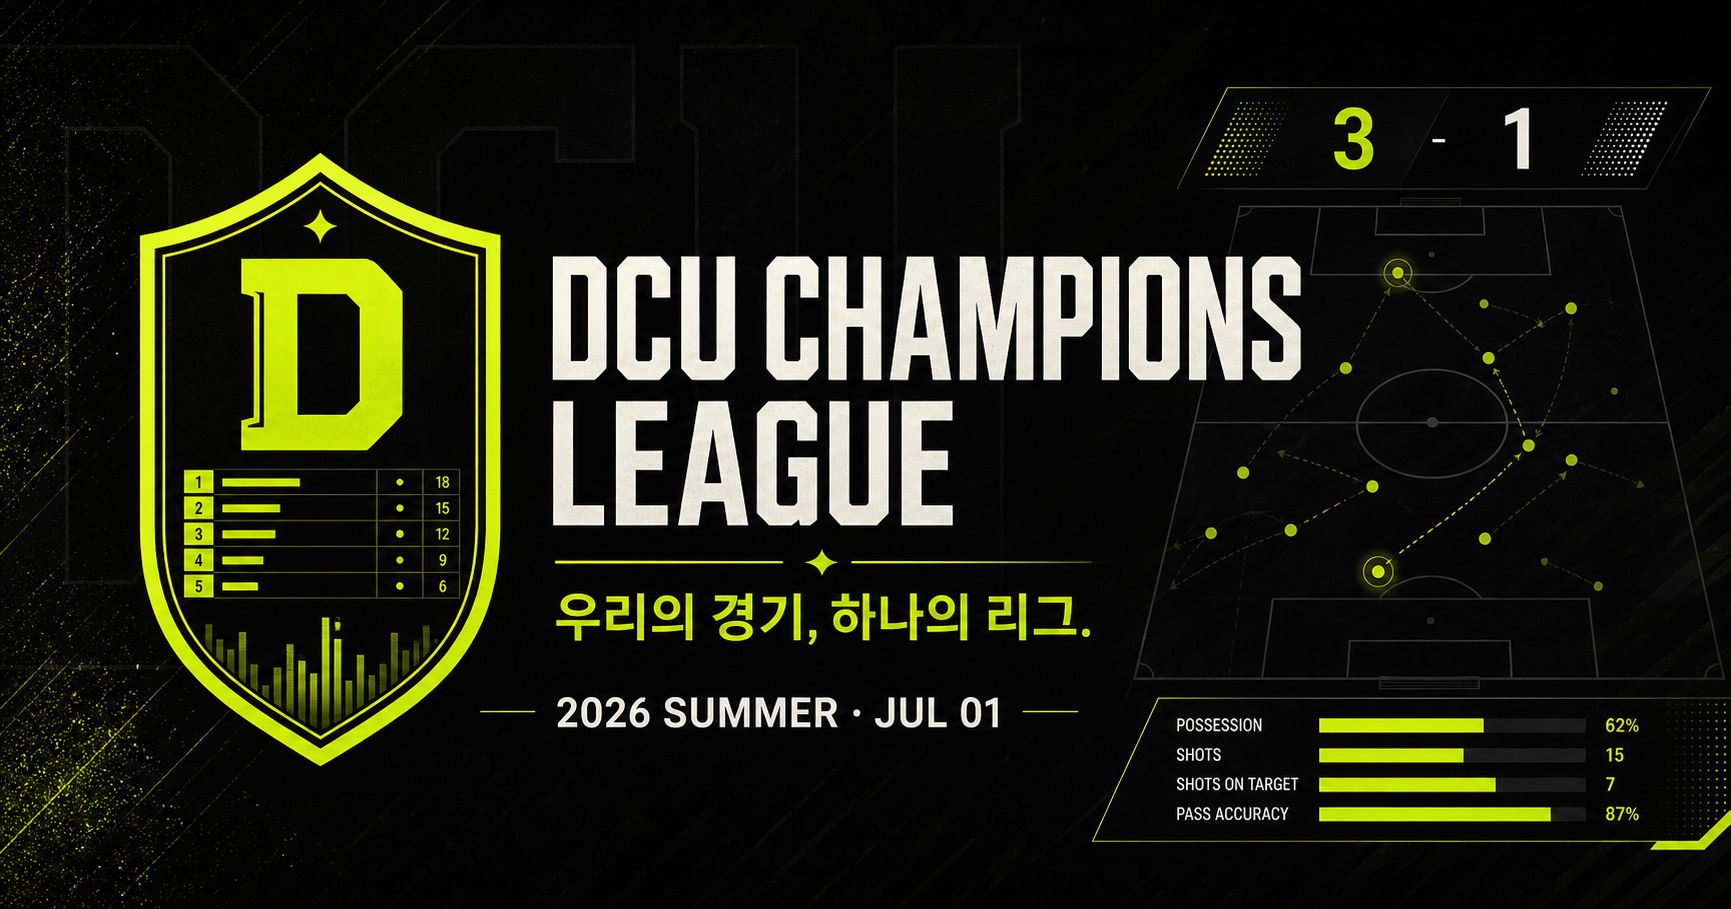
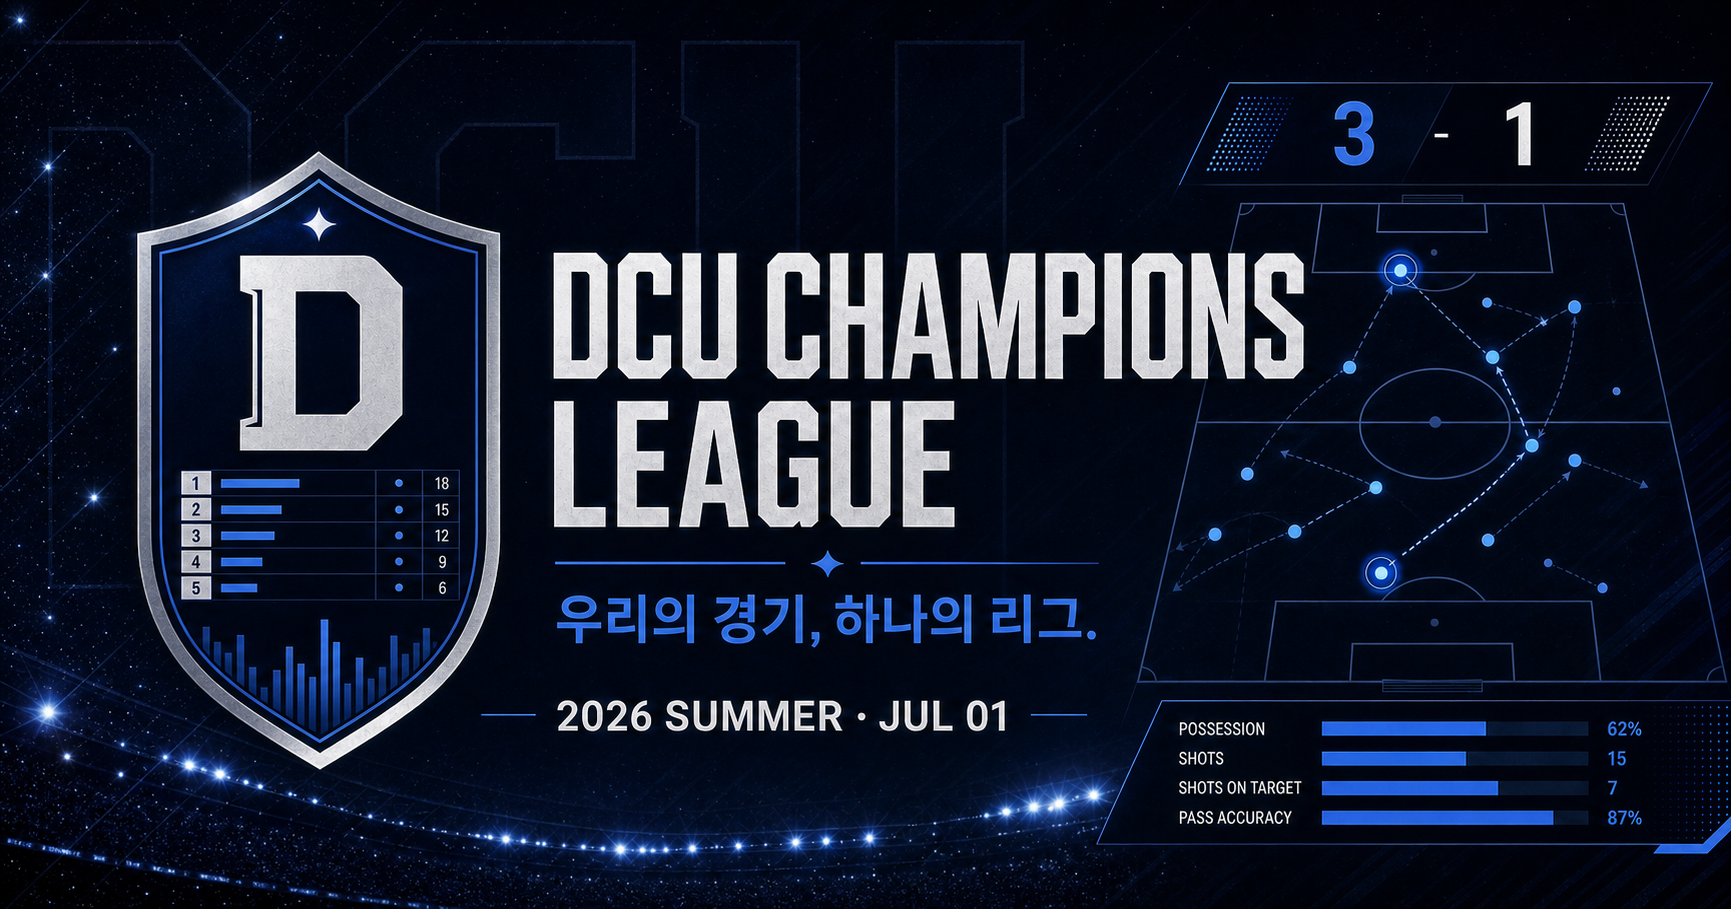
Connect live Nexon data and add European night theme

diff --git a/app/api/league/route.ts b/app/api/league/route.ts
@@ -1,0 +1,112 @@
+import { NextResponse } from "next/server";
+
+const API = "https://open.api.nexon.com/fconline/v1";
+const NICKNAMES = ["씅민쓰", "6년제", "따이민", "그냥강혜중", "대가대다님", "박수환", "빅수환", "6w91oap5jy"];
+const START = new Date("2026-07-01T00:00:00+09:00");
+
+type MatchInfo = {
+  ouid: string;
+  nickname: string;
+  matchDetail: { matchResult: string; possession: number };
+  shoot: { goalTotal: number; shootOutScore: number; shootTotal: number; effectiveShootTotal: number };
+  pass: { passTry: number; passSuccess: number };
+  shootDetail: Array<{ goalTime: number; x: number; y: number; result: number; inPenalty: boolean }>;
+};
+
+type Match = { matchId: string; matchDate: string; matchType: number; matchInfo: MatchInfo[] };
+
+async function nexon<T>(path: string, key: string): Promise<T> {
+  for (let attempt = 0; attempt < 3; attempt++) {
+    const response = await fetch(`${API}${path}`, {
+      headers: { "x-nxopen-api-key": key },
+      next: { revalidate: 3600 },
+    });
+    if (response.ok) return response.json() as Promise<T>;
+    if (response.status !== 429 && response.status < 500) throw new Error(`NEXON API ${response.status}`);
+    await new Promise((resolve) => setTimeout(resolve, 350 * (attempt + 1)));
+  }
+  throw new Error("NEXON API 요청 한도를 초과했습니다. 잠시 후 다시 시도해 주세요.");
+}
+
+function table(matches: Match[], includeShootout: boolean) {
+  const rows = new Map(NICKNAMES.map((name) => [name, { name, p: 0, w: 0, d: 0, l: 0, gf: 0, ga: 0, form: [] as string[] }]));
+  for (const match of matches) {
+    const [a, b] = match.matchInfo;
+    const ag = Number(a.shoot.goalTotal || 0) + (includeShootout ? Number(a.shoot.shootOutScore || 0) : 0);
+    const bg = Number(b.shoot.goalTotal || 0) + (includeShootout ? Number(b.shoot.shootOutScore || 0) : 0);
+    const ar = rows.get(a.nickname)!; const br = rows.get(b.nickname)!;
+    ar.p++; br.p++; ar.gf += ag; ar.ga += bg; br.gf += bg; br.ga += ag;
+    if (ag > bg) { ar.w++; br.l++; ar.form.push("W"); br.form.push("L"); }
+    else if (ag < bg) { br.w++; ar.l++; br.form.push("W"); ar.form.push("L"); }
+    else { ar.d++; br.d++; ar.form.push("D"); br.form.push("D"); }
+  }
+  return [...rows.values()].map((r) => ({ ...r, gd: r.gf - r.ga, pts: r.w * 3 + r.d, form: r.form.slice(0, 5) }))
+    .sort((a, b) => b.pts - a.pts || b.gd - a.gd || b.gf - a.gf)
+    .map((r, index) => ({ ...r, rank: index + 1 }));
+}
+
+function analytics(matches: Match[]) {
+  const result = Object.fromEntries(NICKNAMES.map((name) => [name, { matches: 0, shots: 0, onTarget: 0, goals: 0, passTry: 0, passSuccess: 0, routes: [0, 0, 0], goalBuckets: [0, 0, 0, 0, 0, 0] }]));
+  for (const match of matches) for (const info of match.matchInfo) {
+    const row = result[info.nickname];
+    row.matches++; row.shots += info.shoot.shootTotal || 0; row.onTarget += info.shoot.effectiveShootTotal || 0;
+    row.goals += info.shoot.goalTotal || 0; row.passTry += info.pass.passTry || 0; row.passSuccess += info.pass.passSuccess || 0;
+    for (const shot of info.shootDetail || []) {
+      const y = Math.max(0, Math.min(1, Number(shot.y || 0)));
+      row.routes[y < .33 ? 0 : y < .66 ? 1 : 2]++;
+      if (Number(shot.result) === 3) {
+        const raw = Number(shot.goalTime || 0); const period = Math.floor(raw / 2 ** 24);
+        const seconds = raw - period * 2 ** 24 + [0, 45, 90, 105, 120][Math.min(period, 4)] * 60;
+        row.goalBuckets[Math.min(5, Math.floor(seconds / 900))]++;
+      }
+    }
+  }
+  return result;
+}
+
+export async function GET() {
+  const key = process.env.NEXON_API_KEY;
+  if (!key) return NextResponse.json({ connected: false, reason: "NEXON_API_KEY가 설정되지 않았습니다." });
+
+  try {
+    const identities = await Promise.all(NICKNAMES.map(async (nickname) => {
+      const result = await nexon<{ ouid: string }>(`/id?nickname=${encodeURIComponent(nickname)}`, key);
+      return { nickname, ouid: result.ouid };
+    }));
+    const ouids = new Set(identities.map((x) => x.ouid));
+    const matchTypes = (process.env.NEXON_MATCH_TYPES || "40,50").split(",").map(Number).filter(Boolean);
+    const playerLists = await Promise.all(identities.map(async ({ ouid }) => {
+      const lists = [] as string[][];
+      for (const type of matchTypes) {
+        lists.push(await nexon<string[]>(`/user/match?ouid=${ouid}&matchtype=${type}&offset=0&limit=40`, key));
+      }
+      return [...new Set(lists.flat())];
+    }));
+    const counts = new Map<string, number>();
+    playerLists.forEach((ids) => ids.forEach((id) => counts.set(id, (counts.get(id) || 0) + 1)));
+    const ids = [...counts].filter(([, count]) => count >= 2).map(([id]) => id);
+    const details: Match[] = [];
+    for (let i = 0; i < ids.length; i += 5) {
+      const batch = await Promise.all(ids.slice(i, i + 5).map((id) => nexon<Match>(`/match-detail?matchid=${id}`, key)));
+      details.push(...batch);
+    }
+    const matches = details.filter((m) => new Date(`${m.matchDate}+09:00`) >= START && m.matchInfo.length === 2 && m.matchInfo.every((x) => ouids.has(x.ouid)))
+      .sort((a, b) => b.matchDate.localeCompare(a.matchDate));
+    return NextResponse.json({
+      connected: true,
+      updatedAt: new Date().toISOString(),
+      playerCount: NICKNAMES.length,
+      matchCount: matches.length,
+      standings: { excludingShootout: table(matches, false), includingShootout: table(matches, true) },
+      analytics: analytics(matches),
+      matches: matches.slice(0, 20).map((m) => ({
+        id: m.matchId, date: m.matchDate, type: m.matchType,
+        home: m.matchInfo[0].nickname, away: m.matchInfo[1].nickname,
+        homeGoals: m.matchInfo[0].shoot.goalTotal, awayGoals: m.matchInfo[1].shoot.goalTotal,
+        homeShootout: m.matchInfo[0].shoot.shootOutScore || 0, awayShootout: m.matchInfo[1].shoot.shootOutScore || 0,
+      })),
+    });
+  } catch (error) {
+    return NextResponse.json({ connected: false, reason: error instanceof Error ? error.message : "API 연결 실패" }, { status: 502 });
+  }
+}

diff --git a/app/page.tsx b/app/page.tsx
@@ -1,8 +1,13 @@
 "use client";
 
-import { useMemo, useState } from "react";
+import { useEffect, useMemo, useState } from "react";
 
-const players = [
+type PlayerRow = { rank: number; name: string; p: number; w: number; d: number; l: number; gf: number; ga: number; gd: number; pts: number; form: string[] };
+type ApiMatch = { id: string; date: string; type: number; home: string; away: string; homeGoals: number; awayGoals: number; homeShootout: number; awayShootout: number };
+type PlayerAnalytics = { matches: number; shots: number; onTarget: number; goals: number; passTry: number; passSuccess: number; routes: number[]; goalBuckets: number[] };
+type LeagueData = { connected: boolean; playerCount?: number; matchCount?: number; matches?: ApiMatch[]; standings?: { excludingShootout: PlayerRow[]; includingShootout: PlayerRow[] }; analytics?: Record<string, PlayerAnalytics> };
+
+const previewPlayers = [
   { rank: 1, name: "씅민쓰", p: 12, w: 8, d: 2, l: 2, gf: 29, ga: 15, form: ["W", "W", "D", "W", "W"] },
   { rank: 2, name: "6년제", p: 12, w: 7, d: 2, l: 3, gf: 24, ga: 16, form: ["W", "L", "W", "W", "D"] },
   { rank: 3, name: "따이민", p: 11, w: 6, d: 2, l: 3, gf: 21, ga: 16, form: ["D", "W", "W", "L", "W"] },
@@ -10,9 +15,10 @@ const players = [
   { rank: 5, name: "대가대다님", p: 11, w: 4, d: 2, l: 5, gf: 17, ga: 20, form: ["W", "L", "L", "D", "W"] },
   { rank: 6, name: "박수환", p: 12, w: 3, d: 2, l: 7, gf: 16, ga: 25, form: ["L", "W", "L", "D", "L"] },
   { rank: 7, name: "빅수환", p: 12, w: 2, d: 1, l: 9, gf: 12, ga: 27, form: ["L", "L", "W", "L", "L"] },
+  { rank: 8, name: "6w91oap5jy", p: 0, w: 0, d: 0, l: 0, gf: 0, ga: 0, form: [] },
 ];
 
-const matches = [
+const previewMatches = [
   { date: "7월 20일 · 23:41", home: "씅민쓰", away: "6년제", score: "3 : 1", note: "공식경기" },
   { date: "7월 20일 · 22:18", home: "따이민", away: "박수환", score: "2 : 2", note: "친선경기 · 승부차기 4:3" },
   { date: "7월 19일 · 01:06", home: "그냥강혜중", away: "대가대다님", score: "1 : 0", note: "공식경기" },
@@ -21,7 +27,26 @@ const matches = [
 export default function Home() {
   const [shootout, setShootout] = useState(false);
   const [tab, setTab] = useState("순위");
-  const table = useMemo(() => players.map((x) => ({ ...x, pts: x.w * 3 + x.d, gd: x.gf - x.ga })), []);
+  const [selectedPlayer, setSelectedPlayer] = useState("씅민쓰");
+  const [live, setLive] = useState<LeagueData | null>(null);
+  useEffect(() => { fetch("/api/league").then((r) => r.json()).then(setLive).catch(() => setLive({ connected: false })); }, []);
+  const table = useMemo(() => live?.connected
+    ? (shootout ? live.standings!.includingShootout : live.standings!.excludingShootout)
+    : previewPlayers.map((x) => ({ ...x, pts: x.w * 3 + x.d, gd: x.gf - x.ga })), [live, shootout]);
+  const matchList = live?.connected ? live.matches!.slice(0, 3).map((m) => ({
+    date: new Date(`${m.date}+09:00`).toLocaleString("ko-KR", { month: "long", day: "numeric", hour: "2-digit", minute: "2-digit" }),
+    home: m.home, away: m.away, score: `${m.homeGoals} : ${m.awayGoals}`,
+    note: `${m.type === 50 ? "공식경기" : "친선경기"}${m.homeShootout || m.awayShootout ? ` · 승부차기 ${m.homeShootout}:${m.awayShootout}` : ""}`,
+  })) : previewMatches;
+  const stats = live?.analytics?.[selectedPlayer];
+  const routeTotal = stats?.routes.reduce((sum, value) => sum + value, 0) || 0;
+  const routes = stats ? stats.routes.map((value) => Math.round(value / Math.max(1, routeTotal) * 100)) : [31, 48, 21];
+  const shotAccuracy = stats ? Math.round(stats.onTarget / Math.max(1, stats.shots) * 1000) / 10 : 42.8;
+  const shotsPerGame = stats ? Math.round(stats.shots / Math.max(1, stats.matches) * 10) / 10 : 8.4;
+  const goalsPerGame = stats ? Math.round(stats.goals / Math.max(1, stats.matches) * 10) / 10 : 2.4;
+  const passAccuracy = stats ? Math.round(stats.passSuccess / Math.max(1, stats.passTry) * 100) : 87;
+  const goalBuckets = stats?.goalBuckets || [22, 38, 62, 88, 55, 34];
+  const bucketMax = Math.max(1, ...goalBuckets);
 
   return (
     <main>
@@ -35,7 +60,7 @@ export default function Home() {
             <button className={tab === item ? "active" : ""} onClick={() => setTab(item)} key={item}>{item}</button>
           ))}
         </nav>
-        <div className="sync"><i /> 예시 데이터 <span>API 연결 전</span></div>
+        <div className="sync"><i /> {live?.connected ? "실제 데이터" : "예시 데이터"} <span>{live?.connected ? "NEXON 연결됨" : "API 연결 전"}</span></div>
       </header>
 
       <section className="hero" id="top">
@@ -45,8 +70,8 @@ export default function Home() {
           <p className="lede">대구가톨릭대 친구들의 FC Online 기록을 모아<br/>순위부터 플레이 패턴까지 한눈에.</p>
         </div>
         <div className="hero-stats">
-          <div><span>LEAGUE LEADER</span><strong>씅민쓰</strong><small>26 PTS</small></div>
-          <div><span>TOTAL MATCHES</span><strong>41</strong><small>7 PLAYERS</small></div>
+          <div><span>LEAGUE LEADER</span><strong>{table[0]?.name || "-"}</strong><small>{table[0]?.pts || 0} PTS</small></div>
+          <div><span>TOTAL MATCHES</span><strong>{live?.connected ? live.matchCount : 41}</strong><small>8 PLAYERS</small></div>
           <div><span>LAST UPDATED</span><strong>2시간 전</strong><small>NEXON OPEN API</small></div>
         </div>
       </section>
@@ -77,7 +102,7 @@ export default function Home() {
 
         <aside className="panel recent">
           <div className="panel-head"><div><p className="eyebrow dark">RECENT</p><h2>최근 경기</h2></div><button className="link-btn">전체 보기 →</button></div>
-          <div className="matches">{matches.map((m) => <div className="match" key={m.date}>
+          <div className="matches">{matchList.map((m) => <div className="match" key={`${m.date}-${m.home}`}>
             <div className="match-meta"><span>{m.date}</span><small>{m.note}</small></div>
             <div className="scoreline"><b>{m.home}</b><strong>{m.score}</strong><b>{m.away}</b></div>
           </div>)}</div>
@@ -88,21 +113,21 @@ export default function Home() {
         <div className="section-title"><div><p className="eyebrow">PLAYSTYLE LAB</p><h2>리그 플레이 패턴</h2></div><p>슈팅 좌표·경기 기록으로 계산한 추정 지표입니다.</p></div>
         <div className="analysis-grid">
           <article className="dark-card attack">
-            <div className="card-title"><div><span>01</span><h3>주 공격 루트</h3></div><select aria-label="분석 선수"><option>씅민쓰</option><option>6년제</option><option>따이민</option></select></div>
+            <div className="card-title"><div><span>01</span><h3>주 공격 루트</h3></div><select aria-label="분석 선수" value={selectedPlayer} onChange={(e) => setSelectedPlayer(e.target.value)}>{previewPlayers.map((player) => <option key={player.name}>{player.name}</option>)}</select></div>
             <div className="pitch">
               <div className="halfway"/><div className="circle"/><div className="box left"/><div className="box right"/>
               <i className="hot h1"/><i className="hot h2"/><i className="hot h3"/>
             </div>
-            <div className="route-bars"><div><span>왼쪽</span><i><b style={{width:"31%"}}/></i><strong>31%</strong></div><div><span>중앙</span><i><b style={{width:"48%"}}/></i><strong>48%</strong></div><div><span>오른쪽</span><i><b style={{width:"21%"}}/></i><strong>21%</strong></div></div>
+            <div className="route-bars"><div><span>왼쪽</span><i><b style={{width:`${routes[0]}%`}}/></i><strong>{routes[0]}%</strong></div><div><span>중앙</span><i><b style={{width:`${routes[1]}%`}}/></i><strong>{routes[1]}%</strong></div><div><span>오른쪽</span><i><b style={{width:`${routes[2]}%`}}/></i><strong>{routes[2]}%</strong></div></div>
           </article>
           <article className="dark-card efficiency">
             <div className="card-title"><div><span>02</span><h3>공격 효율</h3></div><small>최근 10경기</small></div>
-            <div className="big-metric"><strong>42.8<sup>%</sup></strong><span>유효 슈팅률<b>리그 평균 35.2%</b></span></div>
-            <div className="mini-metrics"><div><span>경기당 슈팅</span><b>8.4</b></div><div><span>경기당 득점</span><b>2.4</b></div><div><span>패스 성공률</span><b>87%</b></div></div>
+            <div className="big-metric"><strong>{shotAccuracy}<sup>%</sup></strong><span>유효 슈팅률<b>{selectedPlayer} · 7월 1일 이후</b></span></div>
+            <div className="mini-metrics"><div><span>경기당 슈팅</span><b>{shotsPerGame}</b></div><div><span>경기당 득점</span><b>{goalsPerGame}</b></div><div><span>패스 성공률</span><b>{passAccuracy}%</b></div></div>
           </article>
           <article className="dark-card timing">
             <div className="card-title"><div><span>03</span><h3>득점 시간대</h3></div><small>전체 29골</small></div>
-            <div className="chart">{[22,38,62,88,55,34].map((v,i)=><div key={i}><b style={{height:`${v}%`}}/><span>{["0–15","16–30","31–45","46–60","61–75","76–90"][i]}</span></div>)}</div>
+            <div className="chart">{goalBuckets.map((v,i)=><div key={i}><b style={{height:`${Math.max(6, v / bucketMax * 100)}%`}}/><span>{["0–15","16–30","31–45","46–60","61–75","76–90"][i]}</span></div>)}</div>
             <p className="insight"><i>↑</i><span><b>후반 초반에 강합니다</b>46–60분 득점이 리그 평균보다 18% 높아요.</span></p>
           </article>
         </div>

diff --git a/app/globals.css b/app/globals.css
@@ -1,3 +1,4 @@
-@import "tailwindcss";
+@import "tailwindcss";
 
-:root{--lime:#d8ff35;--ink:#111413;--paper:#f3f1ea;--line:#d9d7cf;--muted:#72756f}*{box-sizing:border-box}html{scroll-behavior:smooth}body{margin:0;background:var(--paper);color:var(--ink);font-family:"Arial Narrow","Pretendard Variable",Pretendard,Arial,sans-serif}button,select{font:inherit}button{cursor:pointer}.topbar{height:78px;display:flex;align-items:center;padding:0 4.5vw;border-bottom:1px solid rgba(255,255,255,.18);position:absolute;z-index:5;top:0;left:0;right:0;color:#fff}.brand{display:flex;align-items:center;gap:11px;color:inherit;text-decoration:none;min-width:270px}.crest{display:grid;place-items:center;width:38px;height:44px;background:var(--lime);color:#111;clip-path:polygon(50% 0,100% 16%,91% 79%,50% 100%,9% 79%,0 16%);font:bold 24px Georgia}.brand>span:last-child{display:flex;flex-direction:column;line-height:.9}.brand b{font-size:22px;letter-spacing:.08em}.brand small{font-size:8px;letter-spacing:.22em;margin-top:5px}.topbar nav{display:flex;gap:32px;margin:auto}.topbar nav button{border:0;background:transparent;color:#aaa;padding:29px 0 25px;font-size:13px;font-weight:700;position:relative}.topbar nav button.active{color:white}.topbar nav button.active:after{content:"";position:absolute;height:3px;left:0;right:0;bottom:0;background:var(--lime)}.sync{font-size:11px;display:flex;align-items:center;gap:7px;min-width:270px;justify-content:flex-end}.sync i{width:7px;height:7px;border-radius:50%;background:#ffcc4a}.sync span{color:#999}.hero{background:#111413;color:white;min-height:455px;padding:140px 6vw 58px;display:flex;align-items:flex-end;justify-content:space-between;position:relative;overflow:hidden}.hero:before{content:"DCU";position:absolute;right:-2vw;top:50px;font-size:330px;line-height:1;font-weight:900;letter-spacing:-.1em;color:rgba(255,255,255,.025)}.hero:after{content:"";position:absolute;width:420px;height:420px;border:1px solid rgba(216,255,53,.13);border-radius:50%;right:12vw;top:35px}.hero>div{position:relative;z-index:1}.eyebrow{font-weight:800;font-size:10px;letter-spacing:.24em;color:var(--lime);margin:0 0 14px}.eyebrow.dark{color:#6e7562}.hero h1{font-size:clamp(54px,7vw,105px);line-height:.84;letter-spacing:-.065em;text-transform:uppercase;margin:0;font-weight:900}.hero h1 em{font-style:normal;color:var(--lime)}.lede{color:#a8aca7;font-size:14px;line-height:1.7;margin:28px 0 0}.hero-stats{display:grid;grid-template-columns:repeat(3,1fr);min-width:470px;border-top:1px solid #414541;padding-top:22px;gap:32px}.hero-stats div{display:flex;flex-direction:column}.hero-stats span,.hero-stats small{font-size:8px;letter-spacing:.16em;color:#747974}.hero-stats strong{font-size:24px;margin:8px 0 7px}.content-grid{display:grid;grid-template-columns:minmax(0,2.1fr) minmax(330px,.9fr);gap:18px;padding:24px 4vw}.panel{background:#fff;border:1px solid var(--line);border-radius:3px;padding:26px}.panel-head{display:flex;align-items:center;justify-content:space-between;margin-bottom:22px}.panel h2,.analysis-section h2{font-size:26px;letter-spacing:-.04em;margin:0}.toggle-row{display:flex;align-items:center;gap:9px;font-size:11px;font-weight:700}.toggle-row input{display:none}.toggle-row i{width:38px;height:21px;border-radius:20px;background:#d8d8d3;position:relative;transition:.2s}.toggle-row i:after{content:"";position:absolute;width:15px;height:15px;border-radius:50%;background:white;left:3px;top:3px;box-shadow:0 1px 4px #888;transition:.2s}.toggle-row input:checked+i{background:#171a18}.toggle-row input:checked+i:after{left:20px;background:var(--lime)}.table-wrap{overflow:auto}table{width:100%;border-collapse:collapse;font-size:12px;min-width:700px}th{text-align:center;color:#92958f;font-size:9px;letter-spacing:.08em;padding:10px;border-bottom:1px solid var(--line)}th:nth-child(2){text-align:left}td{text-align:center;padding:12px 10px;border-bottom:1px solid #eceae4}td:nth-child(2){text-align:left}.rank{font-size:14px}.r1{color:#9a7a00}.manager{display:flex;align-items:center;gap:9px}.manager>span{width:28px;height:28px;border-radius:50%;display:grid;place-items:center;background:#e7e9e1;font-weight:900}.manager small{font-size:6px;letter-spacing:.12em;background:var(--lime);padding:4px 5px}.positive{color:#19855b;font-weight:bold}.negative{color:#c34f4f}.points{font-size:16px}.form{display:flex;justify-content:center;gap:3px}.form i{font-style:normal;width:18px;height:18px;display:grid;place-items:center;border-radius:2px;font-size:7px;font-weight:bold;color:white}.form .W{background:#222}.form .D{background:#aaa}.form .L{background:#d9d6ce;color:#888}.caption{font-size:9px;color:#989b95;margin:16px 0 0}.link-btn{border:0;background:none;font-size:10px;font-weight:bold}.match{padding:17px 0;border-top:1px solid var(--line)}.match-meta{display:flex;justify-content:space-between;color:#898c87;font-size:9px}.match-meta small{font-size:8px}.scoreline{display:grid;grid-template-columns:1fr 65px 1fr;align-items:center;text-align:center;margin-top:13px;font-size:12px}.scoreline b:first-child{text-align:right}.scoreline b:last-child{text-align:left}.scoreline strong{background:#151816;color:white;padding:8px;font-size:15px}.analysis-section{background:#1b1e1c;color:white;padding:52px 4vw 60px}.section-title{display:flex;justify-content:space-between;align-items:flex-end;margin-bottom:24px}.section-title>p{font-size:10px;color:#858a85}.analysis-grid{display:grid;grid-template-columns:1.25fr .8fr 1fr;gap:14px}.dark-card{min-height:315px;background:#242825;border:1px solid #383c38;padding:23px}.card-title{display:flex;justify-content:space-between;align-items:center}.card-title>div{display:flex;align-items:center;gap:10px}.card-title div>span{color:var(--lime);font-size:9px}.card-title h3{margin:0;font-size:15px}.card-title small{font-size:8px;color:#888}.card-title select{background:#181b19;color:#ddd;border:1px solid #444;padding:6px 24px 6px 9px;font-size:9px}.pitch{height:150px;margin:22px 0 18px;border:1px solid #65705f;background:repeating-linear-gradient(90deg,#293129 0,#293129 16.6%,#252d26 16.6%,#252d26 33.2%);position:relative;overflow:hidden}.halfway{position:absolute;left:50%;top:0;bottom:0;border-left:1px solid #65705f}.circle{position:absolute;width:55px;height:55px;border:1px solid #65705f;border-radius:50%;left:50%;top:50%;transform:translate(-50%,-50%)}.box{position:absolute;width:45px;height:85px;border:1px solid #65705f;top:32px}.box.left{left:-1px}.box.right{right:-1px}.hot{position:absolute;border-radius:50%;filter:blur(12px);background:rgba(216,255,53,.58)}.h1{width:75px;height:70px;right:2%;top:48px}.h2{width:55px;height:55px;right:22%;top:29px}.h3{width:42px;height:42px;right:34%;bottom:16px;opacity:.6}.route-bars>div{display:grid;grid-template-columns:40px 1fr 30px;align-items:center;gap:8px;font-size:8px;color:#aaa;margin:7px 0}.route-bars i{height:3px;background:#3b403c}.route-bars i b{display:block;height:100%;background:var(--lime)}.route-bars strong{color:white}.big-metric{padding:35px 0 27px;border-bottom:1px solid #3b3f3b;display:flex;align-items:flex-end;gap:13px}.big-metric>strong{font-size:54px;line-height:.8;color:var(--lime)}.big-metric sup{font-size:17px}.big-metric>span{font-size:10px;color:#aaa;display:flex;flex-direction:column;gap:5px}.big-metric span b{color:#666;font-size:7px}.mini-metrics div{display:flex;justify-content:space-between;padding:12px 0;border-bottom:1px solid #343834;font-size:9px;color:#999}.mini-metrics b{font-size:14px;color:white}.chart{height:145px;display:flex;gap:8px;align-items:flex-end;padding-top:25px}.chart>div{height:100%;flex:1;display:flex;flex-direction:column;justify-content:flex-end;align-items:center;gap:7px}.chart b{width:100%;max-width:28px;background:#5b625a}.chart div:nth-child(4) b{background:var(--lime)}.chart span{font-size:7px;color:#777}.insight{display:flex;gap:10px;border-top:1px solid #3b3f3b;padding-top:18px;margin-top:11px}.insight i{font-style:normal;color:#111;background:var(--lime);width:26px;height:26px;display:grid;place-items:center}.insight span{font-size:8px;color:#888;display:flex;flex-direction:column;gap:4px}.insight b{color:#ddd;font-size:9px}footer{height:90px;display:flex;align-items:center;justify-content:space-between;padding:0 4vw;background:#111413;color:#747874;border-top:1px solid #30332f;font-size:9px;letter-spacing:.08em}.brand.small{min-width:auto;color:white}.brand.small .crest{width:27px;height:31px;font-size:14px}.brand.small b{font-size:15px}.brand.small small{font-size:5px}@media(max-width:1000px){.topbar nav{display:none}.sync{min-width:auto}.hero{align-items:flex-start;flex-direction:column}.hero-stats{margin-top:45px;width:100%;min-width:0}.content-grid{grid-template-columns:1fr}.analysis-grid{grid-template-columns:1fr 1fr}.attack{grid-column:1/-1}}@media(max-width:650px){.topbar{padding:0 20px}.brand{min-width:0}.sync span{display:none}.hero{padding:125px 22px 45px}.hero h1{font-size:53px}.hero-stats{grid-template-columns:1fr;gap:15px}.hero-stats div{display:grid;grid-template-columns:1fr 1fr;align-items:center}.hero-stats strong{font-size:18px}.lede br{display:none}.content-grid{padding:14px}.panel{padding:18px}.analysis-section{padding:40px 14px}.analysis-grid{grid-template-columns:1fr}.attack{grid-column:auto}.section-title>p{display:none}.toggle-row span{display:none}footer{padding:0 18px}footer p{display:none}}
+:root{--lime:#7ca7ff;--ink:#0b1330;--paper:#f1f4fb;--line:#d9dfed;--muted:#727b91}*{box-sizing:border-box}html{scroll-behavior:smooth}body{margin:0;background:var(--paper);color:var(--ink);font-family:"Arial Narrow","Pretendard Variable",Pretendard,Arial,sans-serif}button,select{font:inherit}button{cursor:pointer}.topbar{height:78px;display:flex;align-items:center;padding:0 4.5vw;border-bottom:1px solid rgba(255,255,255,.18);position:absolute;z-index:5;top:0;left:0;right:0;color:#fff}.brand{display:flex;align-items:center;gap:11px;color:inherit;text-decoration:none;min-width:270px}.crest{display:grid;place-items:center;width:38px;height:44px;background:var(--lime);color:#111;clip-path:polygon(50% 0,100% 16%,91% 79%,50% 100%,9% 79%,0 16%);font:bold 24px Georgia}.brand>span:last-child{display:flex;flex-direction:column;line-height:.9}.brand b{font-size:22px;letter-spacing:.08em}.brand small{font-size:8px;letter-spacing:.22em;margin-top:5px}.topbar nav{display:flex;gap:32px;margin:auto}.topbar nav button{border:0;background:transparent;color:#aaa;padding:29px 0 25px;font-size:13px;font-weight:700;position:relative}.topbar nav button.active{color:white}.topbar nav button.active:after{content:"";position:absolute;height:3px;left:0;right:0;bottom:0;background:var(--lime)}.sync{font-size:11px;display:flex;align-items:center;gap:7px;min-width:270px;justify-content:flex-end}.sync i{width:7px;height:7px;border-radius:50%;background:#ffcc4a}.sync span{color:#999}.hero{background:radial-gradient(circle at 78% 30%,#263e9d 0,#101a52 30%,#070d2b 66%,#04071a 100%);color:white;min-height:455px;padding:140px 6vw 58px;display:flex;align-items:flex-end;justify-content:space-between;position:relative;overflow:hidden}.hero:before{content:"DCU";position:absolute;right:-2vw;top:50px;font-size:330px;line-height:1;font-weight:900;letter-spacing:-.1em;color:rgba(255,255,255,.025)}.hero:after{content:"";position:absolute;width:420px;height:420px;border:1px solid rgba(124,167,255,.28);border-radius:50%;right:12vw;top:35px}.hero>div{position:relative;z-index:1}.eyebrow{font-weight:800;font-size:10px;letter-spacing:.24em;color:var(--lime);margin:0 0 14px}.eyebrow.dark{color:#6e7562}.hero h1{font-size:clamp(54px,7vw,105px);line-height:.84;letter-spacing:-.065em;text-transform:uppercase;margin:0;font-weight:900}.hero h1 em{font-style:normal;color:var(--lime)}.lede{color:#a8aca7;font-size:14px;line-height:1.7;margin:28px 0 0}.hero-stats{display:grid;grid-template-columns:repeat(3,1fr);min-width:470px;border-top:1px solid #414541;padding-top:22px;gap:32px}.hero-stats div{display:flex;flex-direction:column}.hero-stats span,.hero-stats small{font-size:8px;letter-spacing:.16em;color:#747974}.hero-stats strong{font-size:24px;margin:8px 0 7px}.content-grid{display:grid;grid-template-columns:minmax(0,2.1fr) minmax(330px,.9fr);gap:18px;padding:24px 4vw}.panel{background:#fff;border:1px solid var(--line);border-radius:3px;padding:26px}.panel-head{display:flex;align-items:center;justify-content:space-between;margin-bottom:22px}.panel h2,.analysis-section h2{font-size:26px;letter-spacing:-.04em;margin:0}.toggle-row{display:flex;align-items:center;gap:9px;font-size:11px;font-weight:700}.toggle-row input{display:none}.toggle-row i{width:38px;height:21px;border-radius:20px;background:#d8d8d3;position:relative;transition:.2s}.toggle-row i:after{content:"";position:absolute;width:15px;height:15px;border-radius:50%;background:white;left:3px;top:3px;box-shadow:0 1px 4px #888;transition:.2s}.toggle-row input:checked+i{background:#171a18}.toggle-row input:checked+i:after{left:20px;background:var(--lime)}.table-wrap{overflow:auto}table{width:100%;border-collapse:collapse;font-size:12px;min-width:700px}th{text-align:center;color:#92958f;font-size:9px;letter-spacing:.08em;padding:10px;border-bottom:1px solid var(--line)}th:nth-child(2){text-align:left}td{text-align:center;padding:12px 10px;border-bottom:1px solid #eceae4}td:nth-child(2){text-align:left}.rank{font-size:14px}.r1{color:#9a7a00}.manager{display:flex;align-items:center;gap:9px}.manager>span{width:28px;height:28px;border-radius:50%;display:grid;place-items:center;background:#e7e9e1;font-weight:900}.manager small{font-size:6px;letter-spacing:.12em;background:var(--lime);padding:4px 5px}.positive{color:#19855b;font-weight:bold}.negative{color:#c34f4f}.points{font-size:16px}.form{display:flex;justify-content:center;gap:3px}.form i{font-style:normal;width:18px;height:18px;display:grid;place-items:center;border-radius:2px;font-size:7px;font-weight:bold;color:white}.form .W{background:#222}.form .D{background:#aaa}.form .L{background:#d9d6ce;color:#888}.caption{font-size:9px;color:#989b95;margin:16px 0 0}.link-btn{border:0;background:none;font-size:10px;font-weight:bold}.match{padding:17px 0;border-top:1px solid var(--line)}.match-meta{display:flex;justify-content:space-between;color:#898c87;font-size:9px}.match-meta small{font-size:8px}.scoreline{display:grid;grid-template-columns:1fr 65px 1fr;align-items:center;text-align:center;margin-top:13px;font-size:12px}.scoreline b:first-child{text-align:right}.scoreline b:last-child{text-align:left}.scoreline strong{background:#151816;color:white;padding:8px;font-size:15px}.analysis-section{background:linear-gradient(145deg,#080d2a,#111d52);color:white;padding:52px 4vw 60px}.section-title{display:flex;justify-content:space-between;align-items:flex-end;margin-bottom:24px}.section-title>p{font-size:10px;color:#858a85}.analysis-grid{display:grid;grid-template-columns:1.25fr .8fr 1fr;gap:14px}.dark-card{min-height:315px;background:rgba(17,28,74,.72);border:1px solid rgba(139,170,255,.2);padding:23px}.card-title{display:flex;justify-content:space-between;align-items:center}.card-title>div{display:flex;align-items:center;gap:10px}.card-title div>span{color:var(--lime);font-size:9px}.card-title h3{margin:0;font-size:15px}.card-title small{font-size:8px;color:#888}.card-title select{background:#0a1236;color:#ddd;border:1px solid #33437e;padding:6px 24px 6px 9px;font-size:9px}.pitch{height:150px;margin:22px 0 18px;border:1px solid #6375b9;background:repeating-linear-gradient(90deg,#15245e 0,#15245e 16.6%,#111e52 16.6%,#111e52 33.2%);position:relative;overflow:hidden}.halfway{position:absolute;left:50%;top:0;bottom:0;border-left:1px solid #65705f}.circle{position:absolute;width:55px;height:55px;border:1px solid #65705f;border-radius:50%;left:50%;top:50%;transform:translate(-50%,-50%)}.box{position:absolute;width:45px;height:85px;border:1px solid #65705f;top:32px}.box.left{left:-1px}.box.right{right:-1px}.hot{position:absolute;border-radius:50%;filter:blur(12px);background:rgba(124,167,255,.68)}.h1{width:75px;height:70px;right:2%;top:48px}.h2{width:55px;height:55px;right:22%;top:29px}.h3{width:42px;height:42px;right:34%;bottom:16px;opacity:.6}.route-bars>div{display:grid;grid-template-columns:40px 1fr 30px;align-items:center;gap:8px;font-size:8px;color:#aaa;margin:7px 0}.route-bars i{height:3px;background:#3b403c}.route-bars i b{display:block;height:100%;background:var(--lime)}.route-bars strong{color:white}.big-metric{padding:35px 0 27px;border-bottom:1px solid #3b3f3b;display:flex;align-items:flex-end;gap:13px}.big-metric>strong{font-size:54px;line-height:.8;color:var(--lime)}.big-metric sup{font-size:17px}.big-metric>span{font-size:10px;color:#aaa;display:flex;flex-direction:column;gap:5px}.big-metric span b{color:#666;font-size:7px}.mini-metrics div{display:flex;justify-content:space-between;padding:12px 0;border-bottom:1px solid #343834;font-size:9px;color:#999}.mini-metrics b{font-size:14px;color:white}.chart{height:145px;display:flex;gap:8px;align-items:flex-end;padding-top:25px}.chart>div{height:100%;flex:1;display:flex;flex-direction:column;justify-content:flex-end;align-items:center;gap:7px}.chart b{width:100%;max-width:28px;background:#5b625a}.chart div:nth-child(4) b{background:var(--lime)}.chart span{font-size:7px;color:#777}.insight{display:flex;gap:10px;border-top:1px solid #3b3f3b;padding-top:18px;margin-top:11px}.insight i{font-style:normal;color:#111;background:var(--lime);width:26px;height:26px;display:grid;place-items:center}.insight span{font-size:8px;color:#888;display:flex;flex-direction:column;gap:4px}.insight b{color:#ddd;font-size:9px}footer{height:90px;display:flex;align-items:center;justify-content:space-between;padding:0 4vw;background:#04071a;color:#7781a8;border-top:1px solid #30332f;font-size:9px;letter-spacing:.08em}.brand.small{min-width:auto;color:white}.brand.small .crest{width:27px;height:31px;font-size:14px}.brand.small b{font-size:15px}.brand.small small{font-size:5px}@media(max-width:1000px){.topbar nav{display:none}.sync{min-width:auto}.hero{align-items:flex-start;flex-direction:column}.hero-stats{margin-top:45px;width:100%;min-width:0}.content-grid{grid-template-columns:1fr}.analysis-grid{grid-template-columns:1fr 1fr}.attack{grid-column:1/-1}}@media(max-width:650px){.topbar{padding:0 20px}.brand{min-width:0}.sync span{display:none}.hero{padding:125px 22px 45px}.hero h1{font-size:53px}.hero-stats{grid-template-columns:1fr;gap:15px}.hero-stats div{display:grid;grid-template-columns:1fr 1fr;align-items:center}.hero-stats strong{font-size:18px}.lede br{display:none}.content-grid{padding:14px}.panel{padding:18px}.analysis-section{padding:40px 14px}.analysis-grid{grid-template-columns:1fr}.attack{grid-column:auto}.section-title>p{display:none}.toggle-row span{display:none}footer{padding:0 18px}footer p{display:none}}
+

diff --git a/app/layout.tsx b/app/layout.tsx
@@ -2,6 +2,7 @@ import type { Metadata } from "next";
 import "./globals.css";
 
 export const metadata: Metadata = {
+  metadataBase: new URL(process.env.NEXT_PUBLIC_SITE_URL || "http://localhost:3000"),
   title: "DCU Champions League",
   description: "대구가톨릭대 친구들의 FC Online 리그 순위와 플레이 패턴",
   icons: { icon: "/favicon.svg" },